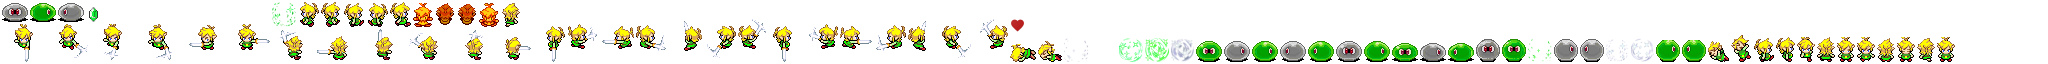
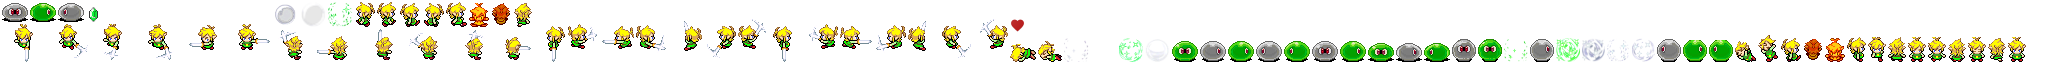
Hacemos que el enemigo grayEnemy tenga una función de invulnerabilidad.

Changed region(s): [[0.5625, 0.5625, 1.0, 0.9688], [0.125, 0.0312, 0.2812, 0.4375]]

diff --git a/assets/levels/gray_bubble_down_1.tsx b/assets/levels/gray_bubble_down_1.tsx
@@ -1,0 +1,4 @@
+<?xml version="1.0" encoding="UTF-8"?>
+<tileset version="1.10" tiledversion="1.10.2" name="gray_bubble_down_1" tilewidth="16" tileheight="16" tilecount="1" columns="1">
+ <image source="gray_bubble_down_1.png" width="26" height="19"/>
+</tileset>

diff --git a/core/src/com/svalero/game/characters/GrayEnemy.java b/core/src/com/svalero/game/characters/GrayEnemy.java
@@ -12,21 +12,22 @@ import com.svalero.game.utils.Constants;
 public class GrayEnemy extends Enemy {
 
 
-    public enum VisibilityState {
+    public enum InvulnerabilityState {
         TRUE, FALSE, REFRESH;
     }
 
-    private float timeSinceDisappear = 0;
-    private final float DISAPPEAR_TIME = 6f;
-    public VisibilityState visibilityState = VisibilityState.TRUE;
+    public InvulnerabilityState invulnerabilityState = InvulnerabilityState.FALSE;
     World world;
     private static final float DETECTION_DISTANCE = 100;
-    private static final float MOVEMENT_SPEED = 800f;
+    private static final float MOVEMENT_SPEED = 200f;
+    int repeatCount = 0;
 
+    float refreshTime;
+    float timeToInvulnerability = 5;
     private Vector2 position;
     private Player player;
 
-    Animation<TextureRegion> voidAnimation;
+    Animation<TextureRegion> invulnerabilityAnimation;
 
     public GrayEnemy(Vector2 position, int hearts, Player player, World world) {
 
@@ -37,34 +38,36 @@ public class GrayEnemy extends Enemy {
         this.type = Enemy.EnemyType.gray;
         body.setUserData(this);
 
+
         this.world = world;
 
         rightAnimation = new Animation<TextureRegion>(0.15f, ResourceManager.getRegions("gray_bubble_right"));
         leftAnimation = new Animation<TextureRegion>(0.15f, ResourceManager.getRegions("gray_bubble_left"));
         idleAnimation = new Animation<TextureRegion>(0.15f, ResourceManager.getRegions("gray_bubble_down"));
         dieAnimation = new Animation<TextureRegion>(0.15f, ResourceManager.getRegions("grey_bubble_die"));
-        voidAnimation = new Animation<TextureRegion>(0.15f, ResourceManager.getRegions("nothing"));
+        invulnerabilityAnimation = new Animation<TextureRegion>(1f, ResourceManager.getRegions("invulnerability"));
+
 
     }
 
     public void update(float dt, SpriteManager spriteManager) {
         stateTime += dt;
-        System.out.println(currentHearts);
+        refreshTime += dt;
 
         Vector2 currentPosition = body.getPosition();
         position.set(currentPosition.x, currentPosition.y);
 
-        if (liveState == Character.LiveState.HIT) {
+        if (liveState == LiveState.HIT) {
             Vector2 repulsionDirection = body.getPosition().cpy().sub(attackOrigin).nor();
             // Aplicar una fuerza repulsiva al cuerpo
             float repulsionForceMagnitude = 90000000000f; // Ajusta la magnitud según lo deseado
             body.applyLinearImpulse(repulsionDirection.scl(repulsionForceMagnitude), body.getWorldCenter(), true);
-            liveState = Character.LiveState.NORMAL;
+            liveState = LiveState.NORMAL;
         }
 
-        if(liveState == LiveState.DYING){
+        if (liveState == LiveState.DYING) {
             currentFrame = dieAnimation.getKeyFrame(stateTime, true);
-            if (dieAnimation.isAnimationFinished(stateTime)){
+            if (dieAnimation.isAnimationFinished(stateTime)) {
                 ResourceManager.getSound(Constants.SOUND + "die_bubble.mp3").play();
                 liveState = LiveState.DEAD;
                 stateTime += dt;
@@ -75,62 +78,63 @@ public class GrayEnemy extends Enemy {
         Vector2 playerPosition = player.getPosition();
         float distanceToPlayer = position.dst(playerPosition);
 
-        if (!(liveState == Character.LiveState.DYING || liveState == Character.LiveState.DEAD)) {
-            if (distanceToPlayer <= DETECTION_DISTANCE) {
-                // Calcular si el enemigo debe desaparecer
-
-                if (visibilityState == VisibilityState.TRUE || visibilityState == VisibilityState.REFRESH) {
-                    boolean shouldDisappear = MathUtils.randomBoolean(0.9f);
-                    if (shouldDisappear && visibilityState != VisibilityState.REFRESH) {
-                        currentFrame = voidAnimation.getKeyFrame(stateTime, true);
-
-                        body.setLinearVelocity(0, 0);
-
-                        if (visibilityState == VisibilityState.TRUE) {
-                            visibilityState = VisibilityState.FALSE;
-                        }
-
-                        // Calcular una nueva posición aleatoria detrás del jugador
-                        float randomX = playerPosition.x + MathUtils.random(-DETECTION_DISTANCE, DETECTION_DISTANCE);
-                        float randomY = playerPosition.y + MathUtils.random(-DETECTION_DISTANCE, DETECTION_DISTANCE);
-                        Vector2 newPosition = new Vector2(randomX, randomY);
-
-                        // Mover al enemigo a la nueva posición
-                        body.setTransform(newPosition, 0);
-
-                    } else {
-
-                        Vector2 direction = playerPosition.cpy().sub(currentPosition).nor();
-
-                        body.applyLinearImpulse(direction.scl(MOVEMENT_SPEED), body.getWorldCenter(), true);
-
-                        if (direction.x > 0) {
-                            // Mover hacia la derecha
-                            currentFrame = rightAnimation.getKeyFrame(stateTime, true);
-                        } else if (direction.x < 0) {
-                            // Mover hacia la izquierda
-                            currentFrame = leftAnimation.getKeyFrame(stateTime, true);
-                        }
-                    }
-                }
+        if (!(liveState == LiveState.DYING || liveState == LiveState.DEAD)) {
+            if (invulnerabilityState == InvulnerabilityState.TRUE) {
+                currentFrame = invulnerabilityAnimation.getKeyFrame(stateTime, true);
+                body.setLinearVelocity(0, 0);
+                body.setActive(false);
             } else {
-                body.setLinearVelocity(1, 1);
-                // Si el jugador está fuera de la distancia de detección, el enemigo está inactivo
-                currentFrame = idleAnimation.getKeyFrame(stateTime, true);
-            }
+                // Si el jugador está dentro de la distancia de detección
+                if (distanceToPlayer <= DETECTION_DISTANCE) {
+                    // Obtener la dirección hacia la que debe moverse el enemigo para alcanzar al jugador
+                    Vector2 direction = playerPosition.cpy().sub(currentPosition).nor();
 
-            if (visibilityState == VisibilityState.FALSE || visibilityState == VisibilityState.TRUE) {
-                timeSinceDisappear = 0;
-                visibilityState = VisibilityState.REFRESH;
-            }
-            timeSinceDisappear += dt;
-            if (timeSinceDisappear >= DISAPPEAR_TIME) {
-                visibilityState = VisibilityState.TRUE;
 
+                    // Aplicar una fuerza lineal al cuerpo del enemigo en la dirección del jugador
+                    body.applyLinearImpulse(direction.scl(MOVEMENT_SPEED), body.getWorldCenter(), true);
+
+                    // Actualizar la animación según la dirección del movimiento
+
+                    if (direction.x > 0) {
+                        // Mover hacia la derecha
+                        currentFrame = rightAnimation.getKeyFrame(stateTime, true);
+                    } else if (direction.x < 0) {
+                        // Mover hacia la izquierda
+                        currentFrame = leftAnimation.getKeyFrame(stateTime, true);
+                    }
+
+                } else {
+                    body.setLinearVelocity(1, 1);
+                    // Si el jugador está fuera de la distancia de detección, el enemigo está inactivo
+                    currentFrame = idleAnimation.getKeyFrame(stateTime, true);
+                }
+            }
+            timeToInvulnerability = MathUtils.random(4, 15);
+            if (invulnerabilityState == InvulnerabilityState.FALSE && refreshTime > timeToInvulnerability) {
+                boolean invulnerability = MathUtils.randomBoolean(0.2f);
+                if (invulnerability) {
+                    invulnerabilityState = InvulnerabilityState.TRUE;
+                    repeatCount = 0;
+                    stateTime = 0;
+                }
+            }
+            int numRepeats = MathUtils.random(3, 7);
+            if (invulnerabilityState == InvulnerabilityState.TRUE && invulnerabilityAnimation.isAnimationFinished(stateTime)) {
+                repeatCount++;
+
+                if (repeatCount >= numRepeats) {
+                    invulnerabilityState = InvulnerabilityState.FALSE;
+                    body.setActive(true);
+                    refreshTime = 0;
+                    repeatCount = 0;
+                }
             }
         }
     }
 }
+
+
+
 
 
 

diff --git a/core/src/com/svalero/game/managers/CameraManager.java b/core/src/com/svalero/game/managers/CameraManager.java
@@ -24,10 +24,29 @@ public class CameraManager {
 
     public void handleCamera() {
         // Fija la cámara para seguir al personaje en el centro de la pantalla y altura fija (eje y)
-        if (spriteManager.player.getPosition().x < TILES_IN_CAMERA * TILE_WIDTH / 2)
-            camera.position.set(TILES_IN_CAMERA * TILE_WIDTH / 2 , TILES_IN_CAMERA * TILE_HEIGHT / 2, 0);
-        else
-            camera.position.set(spriteManager.player.getPosition().x, TILES_IN_CAMERA * TILE_HEIGHT / 2, 0);
+        float cameraX = spriteManager.player.getPosition().x; // Posición X del jugador
+        float cameraY = spriteManager.player.getPosition().y; // Posición Y del jugador
+        float halfViewportWidth = camera.viewportWidth / 2; // Mitad del ancho de la cámara
+        float halfViewportHeight = camera.viewportHeight / 2; // Mitad de la altura de la cámara
+        float levelWidth = TILES_IN_CAMERA * TILE_WIDTH; // Ancho total del nivel en píxeles
+        float levelHeight = TILES_IN_CAMERA * TILE_HEIGHT; // Alto total del nivel en píxeles
+
+        // Restringir la cámara en el eje X
+        if (cameraX - halfViewportWidth < 0) {
+            cameraX = halfViewportWidth; // Ajustar la posición X de la cámara al límite izquierdo
+        } else if (cameraX + halfViewportWidth > levelWidth) {
+            cameraX = levelWidth - halfViewportWidth; // Ajustar la posición X de la cámara al límite derecho
+        }
+
+        // Restringir la cámara en el eje Y
+        if (cameraY - halfViewportHeight < 0) {
+            cameraY = halfViewportHeight; // Ajustar la posición Y de la cámara al límite superior
+        } else if (cameraY + halfViewportHeight > levelHeight) {
+            cameraY = levelHeight - halfViewportHeight; // Ajustar la posición Y de la cámara al límite inferior
+        }
+
+        // Configurar la nueva posición de la cámara
+        camera.position.set(cameraX, cameraY, 0);
 
 
         camera.update();

diff --git a/core/src/com/svalero/game/characters/Player.java b/core/src/com/svalero/game/characters/Player.java
@@ -30,7 +30,7 @@ public class Player extends Character {
     public Character.State state;
     float stateTime;
     private float invulnerabilityTimer = 0f;
-    private final float INVULNERABILITY_DURATION = 0.5f;
+    private float invulnerabilityDuration = 0.5f;
 
     int distanceSword = 6;
 
@@ -79,6 +79,7 @@ public class Player extends Character {
         hurtAnimationPLayer = new Animation<TextureRegion>(0.15f, ResourceManager.getRegions("hurt_down"));
 
         previousState = State.IDLE;
+        currentFrame = idleDownAnimation.getKeyFrame(stateTime, true);
         liveState = LiveState.NORMAL;
     }
 
@@ -234,7 +235,7 @@ public class Player extends Character {
             } else {
                 this.attackOrigin = attackOrigin;
                 liveState = LiveState.HIT;
-                invulnerabilityTimer = INVULNERABILITY_DURATION;
+                invulnerabilityTimer = invulnerabilityDuration;
             }
         }
     }
